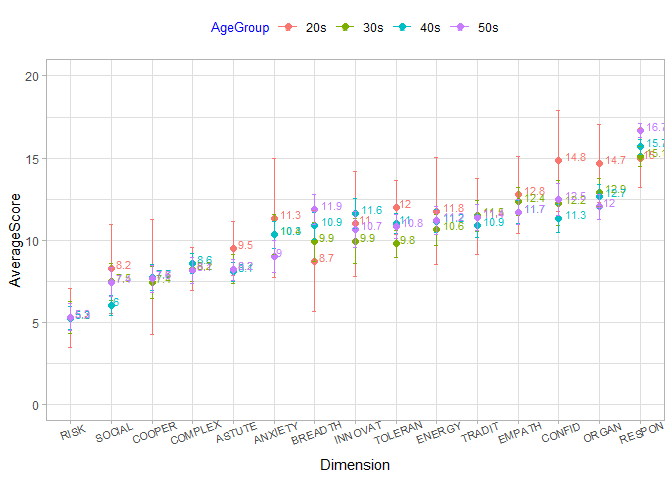
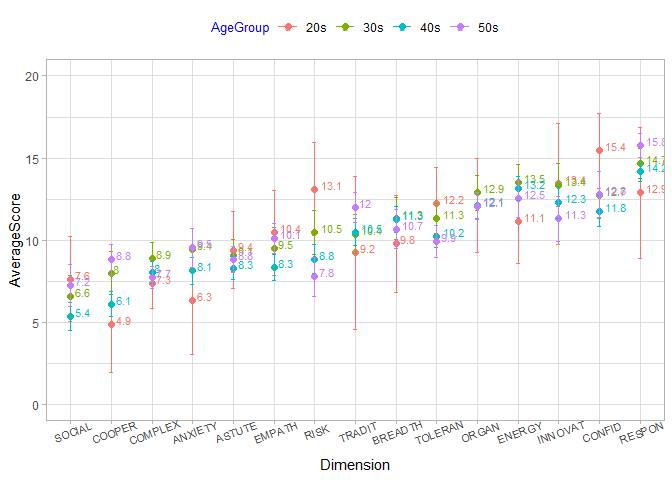
Commit Friday 2

diff --git a/JPIR_Analysis.md b/JPIR_Analysis.md
@@ -7,7 +7,13 @@ JPI-R Analysis
 
 ![](JPIR_Analysis_files/figure-gfm/unnamed-chunk-1-1.png)<!-- -->
 
+## Cluster Plot of JPI-R Dimensions
+
+##### Clustering of Dimensions show correlations within JPI-R clusters, though not strong.
+
 ![](JPIR_Analysis_files/figure-gfm/unnamed-chunk-2-1.png)<!-- -->
+
+![](JPIR_Analysis_files/figure-gfm/unnamed-chunk-3-1.png)<!-- -->
 
 ##### Greatest variability in the following Dimensions: INNOVAT, CONFID, RISK, BREADTH, ANXIETY, SOCIAL, EMPATH, COOPER, ENERGY, TRADIT, ORGAN
 
@@ -15,11 +21,11 @@ JPI-R Analysis
 
 ## Male results by AGE
 
-![](JPIR_Analysis_files/figure-gfm/unnamed-chunk-3-1.png)<!-- -->
+![](JPIR_Analysis_files/figure-gfm/unnamed-chunk-4-1.png)<!-- -->
 
 ## Female results by AGE
 
-![](JPIR_Analysis_files/figure-gfm/unnamed-chunk-4-1.png)<!-- -->
+![](JPIR_Analysis_files/figure-gfm/unnamed-chunk-5-1.png)<!-- -->
 
 ## 360 amd 525 PDA Correlations.
 
@@ -35,7 +41,7 @@ JPI-R Analysis
 
 ###### This data is filtered for only Males in the Age Range of 20 - 49.
 
-![](JPIR_Analysis_files/figure-gfm/unnamed-chunk-5-1.png)<!-- -->
+![](JPIR_Analysis_files/figure-gfm/unnamed-chunk-6-1.png)<!-- -->
 
 ##### Results:
 
@@ -45,7 +51,7 @@ JPI-R Analysis
 
 ## JPI-R Cluster 2: Emotional
 
-![](JPIR_Analysis_files/figure-gfm/unnamed-chunk-6-1.png)<!-- -->
+![](JPIR_Analysis_files/figure-gfm/unnamed-chunk-7-1.png)<!-- -->
 
 ##### Results:
 
@@ -53,7 +59,7 @@ JPI-R Analysis
 
 ## JPI-R Cluster 3: Extroverted
 
-![](JPIR_Analysis_files/figure-gfm/unnamed-chunk-7-1.png)<!-- -->
+![](JPIR_Analysis_files/figure-gfm/unnamed-chunk-8-1.png)<!-- -->
 
 ##### Results:
 
@@ -66,7 +72,7 @@ JPI-R Analysis
 
 ## JPI-R Cluster 4: Opportunistic
 
-![](JPIR_Analysis_files/figure-gfm/unnamed-chunk-8-1.png)<!-- -->
+![](JPIR_Analysis_files/figure-gfm/unnamed-chunk-9-1.png)<!-- -->
 
 ##### Results:
 
@@ -75,7 +81,7 @@ JPI-R Analysis
 
 ## JPI-R Cluster 5: Dependable
 
-![](JPIR_Analysis_files/figure-gfm/unnamed-chunk-9-1.png)<!-- -->
+![](JPIR_Analysis_files/figure-gfm/unnamed-chunk-10-1.png)<!-- -->
 
 ##### Results:
 
